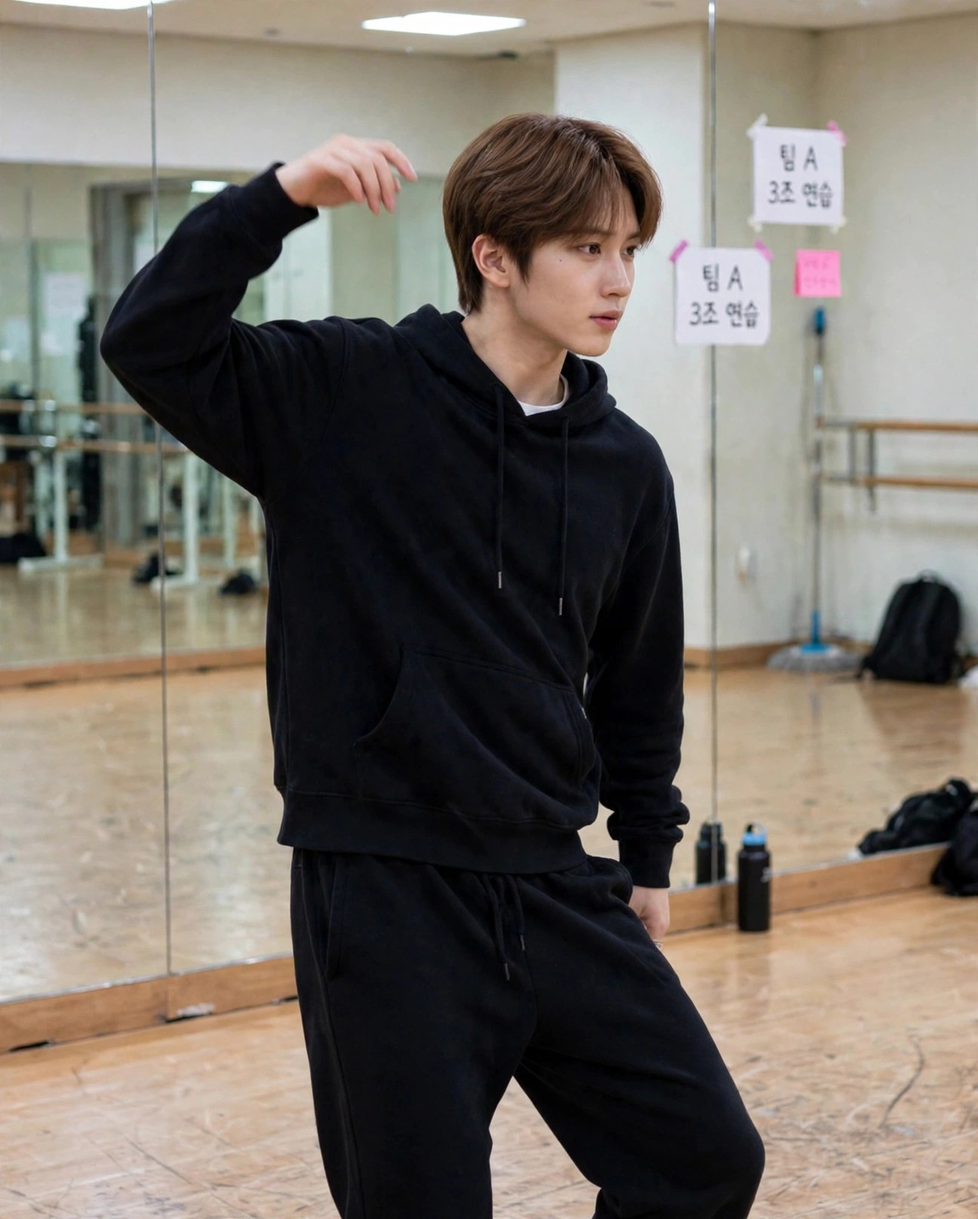
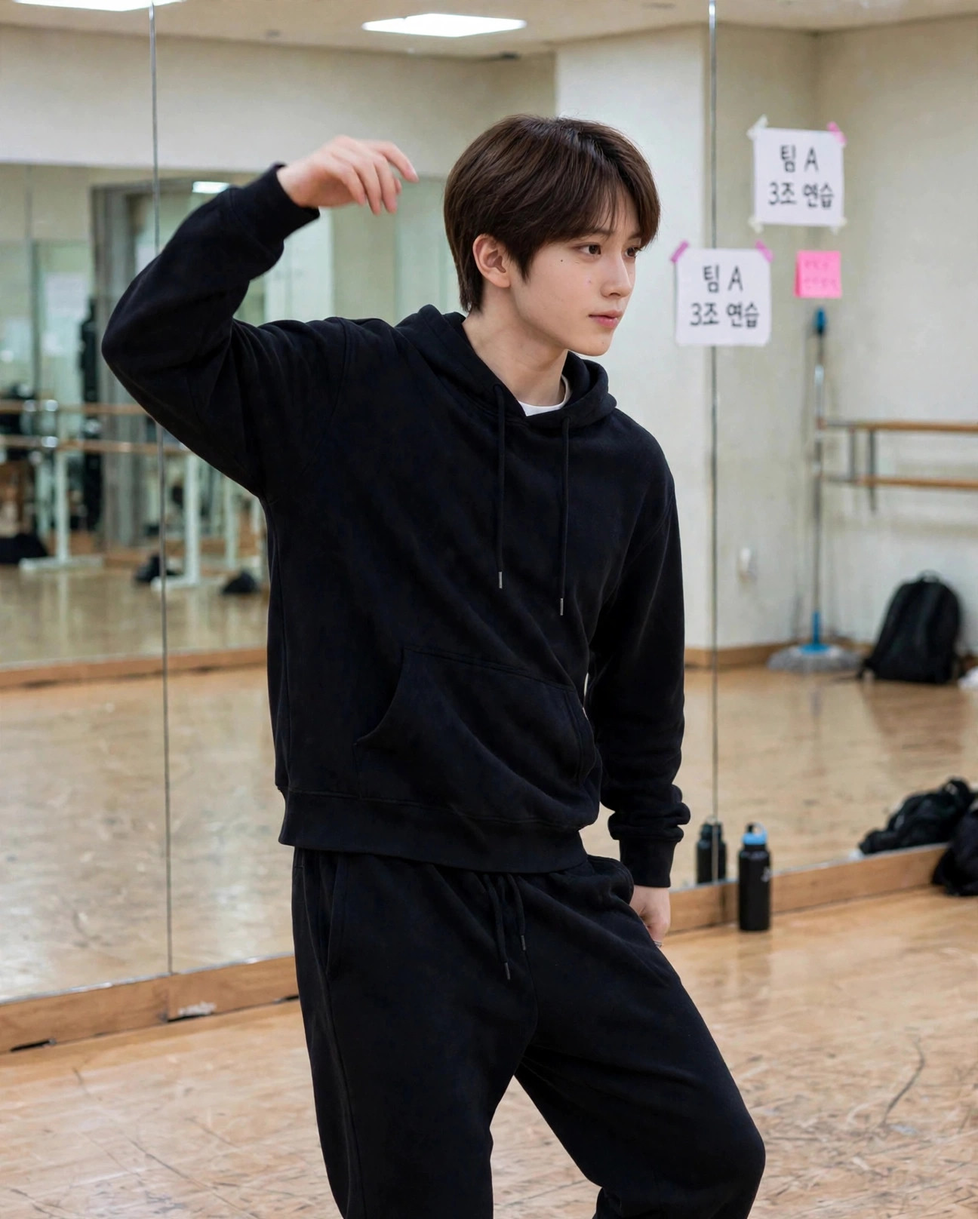
v60: 2023練習/ステージのface2再生成を組み込み／カード画角を頭部55-60%に統一／三浦渚央の順位を順位タブと発表場面に表示

diff --git a/index.html b/index.html
@@ -103,6 +103,7 @@ body{font-family:-apple-system,"Hiragino Kaku Gothic ProN","Noto Sans JP",sans-s
 .rcard.me{outline:2.5px solid var(--gold)}
 .rcard.hiroto{outline:2.5px solid var(--pink)}
 .rankrow{display:flex;align-items:center;gap:12px;background:#fff;margin:9px 12px 0;border-radius:13px;padding:10px 13px;box-shadow:0 1px 4px rgba(0,0,0,.05)}
+.rankrow.me{border:2px solid var(--gold);background:#fffdf3}
 .rankrow img{width:42px;height:42px;border-radius:50%;object-fit:cover;object-position:top}
 .rankrow .rk{font-size:17px;font-weight:800;width:38px;text-align:center}
 .rankrow>div{min-width:0}
@@ -430,7 +431,7 @@ body{font-family:-apple-system,"Hiragino Kaku Gothic ProN","Noto Sans JP",sans-s
     <span class="w-cycle" id="w-cycle">周回：0周目</span>
   </div>
   <div id="story-banner">
-    <img class="sb-thumb" id="sb-thumb" src="assets/nao/2019/profile-face2-close.jpg" alt="">
+    <img class="sb-thumb" id="sb-thumb" src="assets/nao/2019/profile-face2-close2.jpg" alt="">
     <div class="sb-main">
       <div class="sb-badge" id="sb-badge">▶ ストーリーを進める</div>
       <div class="sb-title" id="sb-title">0周目プロローグ</div>
@@ -518,7 +519,7 @@ body{font-family:-apple-system,"Hiragino Kaku Gothic ProN","Noto Sans JP",sans-s
 <script>
 "use strict";
 const $=s=>document.querySelector(s);
-const VER="v59";
+const VER="v60";
 /* ============ state ============ */
 const DEF={idx:0,started:false,consented:false,soundOn:true,
  g:{iwakan:0,bare:0,todoita:0,uta:8,dance:4,ishi:50},
@@ -531,7 +532,7 @@ function save(){try{localStorage.setItem("tlSaveV2",JSON.stringify(S));}catch(e)
 "use strict";
 /* ============ cast / program data (2019) ============ */
 const ROSTER=[
- {nm:"三浦渚央",meta:"高3・ダンス未経験に近い",img:"assets/nao/2019/profile-face2-close.jpg",me:true},
+ {nm:"三浦渚央",meta:"高3・ダンス未経験に近い",img:"assets/nao/2019/profile-face2-close2.jpg",me:true},
  {nm:"井汲大翔",meta:"高2・ダンス未経験",img:"assets/hiroto/hiroto.jpg",hiroto:true},
  {nm:"河野純喜",meta:"練習生",img:"assets/cast2019/junki.jpg"},
  {nm:"川尻蓮",meta:"練習生",img:"assets/cast2019/ren.jpg"},
@@ -548,7 +549,7 @@ const MISSIONS=[
  {at:3,t:"順位発表式",d:"国民プロデューサーの投票結果が発表される。生存と脱落が決まる夜。"}
 ];
 const ROSTER21=[
- {nm:"三浦渚央",meta:"19歳・日本",img:"assets/nao/2021/profile.jpg",me:true},
+ {nm:"三浦渚央",meta:"19歳・日本",img:"assets/nao/2021/profile-close.jpg",me:true},
  {nm:"井汲大翔",meta:"18歳・日本",img:"assets/hiroto21/hiroto.jpg",hiroto:true},
  {nm:"劉宇（リウユー）",meta:"中国・学員",img:"assets/cast2021/liuyu.jpg"},
  {nm:"赞多（サンタ）",meta:"日本・学員",img:"assets/cast2021/santa.jpg"},
@@ -1524,22 +1525,22 @@ function processItem(it){
   case 'keep':if(!S.keeps.includes(it.t))S.keeps.push(it.t);pushLog(`<div class="narr sys"><span class="rec">KEEPSAKE</span>Keepsake Box に残りました</div>`);S.idx++;break;
   case 'diff':if(!S.diffs.includes(it.t))S.diffs.push(it.t);pushLog(lineHTML(it));seDiff();S.idx++;break;
   case 'n': case 'd': case 'm': case 'sys': case 'same':pushLog(lineHTML(it));S.idx++;break;
-  case 'rank':S.flags.ranked=true;seRank();pushLog(canonHTML());S.idx++;break;
+  case 'rank':S.flags.ranked=true;seRank();pushLog(canonHTML());pushLog(naoRankRow("y2019","A"));S.idx++;break;
   case 'hisin':{const inner=it.lines.map(l=>lineHTML(l)).join("");pushLog(`<div class="hisin"><div class="hisin-tag">彼の画面 ― 大翔の視点</div>${inner}</div>`);S.idx++;break;}
   case 'tsukame':{const score=(S.flags.effortB||0)+(S.g.todoita>=4?1:0)+(S.g.ishi>=60?1:0);let out,lines;
    if(score>=4){out='keep';lines=[N('再評価の日。彼の番が来た。中盤、歌詞が一瞬詰まった。――でも、彼は止まらなかった。体が覚えた振りが、次の歌詞を連れてきた。'),N('最後まで、歌い切った。クラスは――C維持。周Aでは号泣と降格だったこの日が、静かに書き換わった。'),SYS('ツカメ再評価（周B）― 井汲大翔：C維持')];}
    else if(score>=2){out='nodrop';lines=[N('再評価の日。やはり中盤で、歌詞が飛んだ。クラスはDへ降格。――でも、彼は泣かなかった。'),N('「……止まらんかったら、歌は続く」。彼は自分にそう言い聞かせるように、最後まで踊り切った。'),SYS('ツカメ再評価（周B）― 井汲大翔：D降格（ただし号泣なし）')];}
    else{out='same';lines=[N('再評価の日。対策は、届かなかった。彼は歌詞を飛ばし、その場で号泣した。周Aと寸分違わない光景だった。'),SYS('ツカメ再評価（周B）― 井汲大翔：D降格（史実どおり）')];}
    S.flags.tsukameB=out;lines.forEach(l=>pushLog(lineHTML(l)));S.idx++;break;}
-  case 'rankB':{let r=36;r-=(S.flags.tsukameB==='keep'?8:S.flags.tsukameB==='nodrop'?4:0);r-=(S.g.todoita>=5?4:S.g.todoita>=3?2:0);r-=(S.g.ishi>=65?3:0);if(r<12)r=12;S.rankB=r;S.flags.rankedB=true;seRank();pushLog(canonBHTML(r));S.idx++;break;}
+  case 'rankB':{let r=36;r-=(S.flags.tsukameB==='keep'?8:S.flags.tsukameB==='nodrop'?4:0);r-=(S.g.todoita>=5?4:S.g.todoita>=3?2:0);r-=(S.g.ishi>=65?3:0);if(r<12)r=12;S.rankB=r;S.flags.rankedB=true;seRank();pushLog(canonBHTML(r));pushLog(naoRankRow("y2019","B"));S.idx++;break;}
   case 'endB':S.finishedB=true;pushLog(`<div class="canon"><h3>2019 日プ編 ― 完</h3><div style="font-size:13px;line-height:1.8">デビューできない結末は変わらなかった。でも、彼の歴史に「隣で踊ってくれた子」が残り、順位は最低ラインから上へ動いた。<br>――大周回Bは、2020年へ続く。</div></div>`);S.idx++;break;
   case 'ishiGate':{const hi=S.g.ishi>=(it.th||60);(hi?it.hi:it.lo).forEach(l=>{if(l.k==='ledger'||l.k==='keep'||l.k==='diff'||l.k==='fx')processResItem(l);else pushLog(lineHTML(l));});S.idx++;break;}
-  case 'rank21':S.flags.ranked21=true;seRank();pushLog(canon21HTML());S.idx++;break;
+  case 'rank21':S.flags.ranked21=true;seRank();pushLog(canon21HTML());pushLog(naoRankRow("y2021","A"));S.idx++;break;
   case 'endM1':S.finishedM1=true;pushLog(`<div class="canon"><h3>幕間1 ― 完</h3><div style="font-size:13px;line-height:1.8">彼はRBW JAPANの練習生になり、「もう一度」を選んだ。2021年、事務所の派遣として創造営へ。<br>――第2部・2021 創造営編へ続く。</div></div>`);S.idx++;break;
   case 'end21A':S.finished21A=true;pushLog(`<div class="canon"><h3>2021 創造営編 ― 大周回A・終了</h3><div style="font-size:13px;line-height:1.8">15位は、大周回Aの結果（最低ライン）。デビューできない結末は、この時代でも変わらなかった。<br>彼は巻き戻らない。時間は流れ、彼女だけが「この先」を知っている。――現在インタールードへ続く。</div></div>`);S.idx++;break;
-  case 'rank21B':{let r=15;r-=(S.flags.effort21>=4?2:S.flags.effort21>=2?1:0);r-=(S.g.todoita>=8?1:0);if(r<12)r=12;S.rank21B=r;S.flags.ranked21B=true;seRank();pushLog(canon21BHTML(r));S.idx++;break;}
+  case 'rank21B':{let r=15;r-=(S.flags.effort21>=4?2:S.flags.effort21>=2?1:0);r-=(S.g.todoita>=8?1:0);if(r<12)r=12;S.rank21B=r;S.flags.ranked21B=true;seRank();pushLog(canon21BHTML(r));pushLog(naoRankRow("y2021","B"));S.idx++;break;}
   case 'end21B':S.finished21B=true;pushLog(`<div class="canon"><h3>2021 創造営編 ― 完</h3><div style="font-size:13px;line-height:1.8">デビューできない結末は変わらなかった。でも彼の歴史に「隣にいてくれた子」が、2つの時代に残った。<br>――大周回B、次は2023年へ続く。</div></div>`);S.idx++;break;
-  case 'rank23B':{let r=21;r-=(S.flags.effort23>=4?4:S.flags.effort23>=3?3:S.flags.effort23>=2?2:S.flags.effort23>=1?1:0);r-=(S.g.todoita>=12?2:S.g.todoita>=9?1:0);r-=(S.g.ishi>=85?1:0);if(r<12)r=12;if(r>21)r=21;S.rank23B=r;S.flags.ranked23B=true;seRank();pushLog(canon23BHTML(r));
+  case 'rank23B':{let r=21;r-=(S.flags.effort23>=4?4:S.flags.effort23>=3?3:S.flags.effort23>=2?2:S.flags.effort23>=1?1:0);r-=(S.g.todoita>=12?2:S.g.todoita>=9?1:0);r-=(S.g.ishi>=85?1:0);if(r<12)r=12;if(r>21)r=21;S.rank23B=r;S.flags.ranked23B=true;seRank();pushLog(canon23BHTML(r));pushLog(naoRankRow("y2023","B"));
    if(r<=18){pushLog(lineHTML(N('第3回順位発表。17位、18位――生存の枠の中に、彼の名前が残った。')));pushLog(lineHTML(N('大周回Aでは閉ざされた扉が、開いた。彼はファイナルへ進んだ。')));pushLog(lineHTML(N('ファイナルの夜。最後のステージを終え、静寂の中で順位が読み上げられた。デビューの9人には届かなかった。――でも彼の名前は、ずっと後の順番まで、呼ばれなかった。')));}
    else{pushLog(lineHTML(N('第3回順位発表。19位、20位が過ぎ――彼の名前は、'+r+'位で呼ばれた。')));pushLog(lineHTML(N('脱落する回は、大周回Aと同じだった。でも順位は、確かに上へ動いていた。')));}
    S.idx++;break;}
@@ -1580,7 +1581,7 @@ function processItem(it){
     pushLog(`<div class="canon"><h3>BAD END ― ループ継続</h3><div style="font-size:13px;line-height:1.8">二人は「止める」と約束したのに、彼女は怖さに負けて、もう一度戻ってしまった。空虚な追加周回が始まる。<br>――認める勇気が、この物語の最後の鍵だった。</div></div>`);
    }
    S.idx=SCRIPT.length;break;}
-  case 'rank23':S.flags.ranked23=true;seRank();pushLog(canon23HTML());S.idx++;break;
+  case 'rank23':S.flags.ranked23=true;seRank();pushLog(canon23HTML());pushLog(naoRankRow("y2023","A"));S.idx++;break;
   case 'endM2':S.finishedM2=true;pushLog(`<div class="canon"><h3>幕間2 ― 完</h3><div style="font-size:13px;line-height:1.8">彼は三度目を選んだ。行く先は韓国『BOYS PLANET』。<br>――第3部・2023 ボイプラ編へ続く。</div></div>`);S.idx++;break;
   case 'end23A':S.finished23A=true;pushLog(`<div class="canon"><h3>2023 ボイプラ編 ― 大周回A・終了</h3><div style="font-size:13px;line-height:1.8">21位は、大周回Aの結果（最低ライン）。デビューできない結末は、三度目も変わらなかった。<br>彼の挑戦は一度ここで閉じる。でも物語は、番組のない日々へ続いていく。――NXD期へ続く。</div></div>`);S.idx++;break;
   case 'endNXDA':S.finishedNXDA=true;pushLog(`<div class="canon"><h3>大周回A ― 完</h3><div style="font-size:13px;line-height:1.8">彼女は2026年に帰ってきた。0周目とほとんど同じ顔をした現在。でも彼女の中には、彼の隣で生きた7年分の記憶がある。<br>――そして、もう一度。第2の大周回が始まる。</div></div>`);S.idx++;break;
@@ -1592,7 +1593,16 @@ function processItem(it){
  save();renderGauges();updProg();
 }
 function updProg(){const i=$("#st-prog-i");if(i)i.style.width=Math.min(100,Math.round((S?S.idx:0)/SCRIPT.length*100))+"%";}
-function naoPopHTML(era){const t={y2019:`個人ファンカムの再生は上位圏。実力クラスはCまでで、「顔は上位圏、実力は中位」のギャップが番組内外で話題に。中間発表の人気は高かったが、最終結果は生存枠の手前だった。`,y2021:`中国でもビジュアル先行で名前が売れた。人気は上位圏、実力は中位のまま――ギャップはこの時代でも話題になり、結果はデビューの枠の手前で止まった。`,y2023:`個人ファンカム（チッケム）の再生が実力以上に伸び、中間発表の順位はそこそこ上まで来た。ただしデビュー圏には入れない。人気が上がるほど「近づいてしまう」緊張が、彼女を離脱（辞退）へ向かわせる伏線になる。`};return `<div class="rankrow"><div class="rk" style="font-size:12px;color:var(--gold)">人気</div><img src="assets/nao/${era==="y2019"?"2019/profile-face2-close":era==="y2021"?"2021/profile":"2023/profile-close"}.jpg"><div><div class="rnm">三浦渚央 ― ビジュアル人気</div><div class="rmeta" style="white-space:normal">${t[era]}</div></div></div>`;}
+function naoRankRow(era,loop){const D={
+"y2019A":[38,"第1回 19位 → 第2回 38位で脱落（生存枠の手前）"],
+"y2019B":[36,"第1回 13位 → 第2回 36位で脱落 ― 周Aの38位から上昇（デビュー圏外）"],
+"y2021A":[18,"中間 23位 → 最終 18位（デビューの枠の手前）"],
+"y2021B":[16,"中間 17位 → 最終 16位 ― 周Aの18位から上昇（デビュー圏外）"],
+"y2023A":[22,"第1回 27位 → 第2回 23位 → 第3回 22位で脱落（枠の手前）"],
+"y2023B":[19,"第1回 20位 → 第2回 17位 → 第3回 19位で脱落 ― 周Aの22位から上昇（デビュー圏外）"]};
+const img=era==="y2019"?"assets/nao/2019/profile-face2-close2.jpg":era==="y2021"?"assets/nao/2021/profile-close.jpg":"assets/nao/2023/profile-close.jpg";
+const d=D[era+loop];return `<div class="rankrow me"><div class="rk" style="color:var(--gold)">${d[0]}</div><img src="${img}"><div><div class="rnm">三浦渚央${loop==="B"?"（周B）":""}</div><div class="rmeta">${d[1]}</div></div></div>`;}
+function naoPopHTML(era){const t={y2019:`個人ファンカムの再生は上位圏。実力クラスはCまでで、「顔は上位圏、実力は中位」のギャップが番組内外で話題に。中間発表の人気は高かったが、最終結果は生存枠の手前だった。`,y2021:`中国でもビジュアル先行で名前が売れた。人気は上位圏、実力は中位のまま――ギャップはこの時代でも話題になり、結果はデビューの枠の手前で止まった。`,y2023:`個人ファンカム（チッケム）の再生が実力以上に伸び、中間発表の順位はそこそこ上まで来た。ただしデビュー圏には入れない。人気が上がるほど「近づいてしまう」緊張が、彼女を離脱（辞退）へ向かわせる伏線になる。`};return `<div class="rankrow"><div class="rk" style="font-size:12px;color:var(--gold)">人気</div><img src="assets/nao/${era==="y2019"?"2019/profile-face2-close2":era==="y2021"?"2021/profile-close":"2023/profile-close"}.jpg"><div><div class="rnm">三浦渚央 ― ビジュアル人気</div><div class="rmeta" style="white-space:normal">${t[era]}</div></div></div>`;}
 function canon23HTML(){const g=S.g;return `<div class="canon"><h3>CANON LOCK ― BOYS PLANET・第3回順位発表の内訳</h3>
  <div class="crow"><span class="fixed">絶対不変</span><div>デビューできない結末（彼はZEROBASEONEのメンバーに入らない）／第3回発表で脱落する回は変更なし</div></div>
  <div class="crow"><span class="changed">周Aの結果</span><div>井汲大翔：<b>21位</b>（史実どおり＝最低ライン）／届いた応援：<b>${g.todoita}件</b>／評価と人気が噛み合わない中でも、キリングパートは届いた</div></div>
@@ -1680,13 +1690,13 @@ function renderProg(tab){progTab=tab;if(tab!=="roster")rosterSel=-1;document.que
  if(tab==="roster"){const _rn2=rosterNow();const _kind=_rn2===ROSTER21?"21":_rn2===ROSTER23?"23":"19";document.querySelectorAll("#prog-body .rcard").forEach((el,i)=>{el.style.cursor="pointer";el.onclick=()=>{seTap(1);rosterSel=(rosterSel===i?-1:i);renderProg("roster");};});if(rosterSel>=0&&_rn2[rosterSel]){const r=_rn2[rosterSel];body.insertAdjacentHTML("beforeend",`<div class="rdetail"><img src="${r.img}"><div><div class="rd-n">${r.nm}${r.me?"（自分）":""}</div><div class="rd-m">${r.meta}</div><p>${rosterMemo(r,_kind)}</p></div></div>`);}}
  if(tab==="rank"){
    if(!S.flags.ranked&&!S.flags.ranked21&&!S.flags.ranked23){body.innerHTML=`<div class="empty">順位発表はまだ行われていません。<br>発表の夜に、ここへ結果が刻まれます。</div>`;}
-   else{body.innerHTML=`<div class="rank-note">これは<b>公式発表の写し</b>です。デビュー圏（日プ・創造営は11位まで／ボイプラは9位まで）には、どの周でも入りません ― <b>Canon Lock</b>。動くのは、圏の外側の景色です。</div>`+(S.flags.ranked23B?canon23BHTML(S.rank23B)+`<div class="rankrow"><div class="rk" style="color:var(--pink)">${S.rank23B}</div><img src="assets/hiroto23/hiroto.jpg"><div><div class="rnm">井汲大翔（ボイプラ・周B）</div><div class="rmeta">デビュー圏外 ― 周Aの21位から上昇</div></div></div>`:"")+(S.flags.ranked23?canon23HTML()+`<div class="rankrow"><div class="rk">―</div><img src="assets/hiroto23/hiroto.jpg"><div><div class="rnm">1位〜20位</div><div class="rmeta">史実どおり（変更なし）</div></div></div>
+   else{body.innerHTML=`<div class="rank-note">これは<b>公式発表の写し</b>です。デビュー圏（日プ・創造営は11位まで／ボイプラは9位まで）には、どの周でも入りません ― <b>Canon Lock</b>。動くのは、圏の外側の景色です。</div>`+(S.flags.ranked23B?canon23BHTML(S.rank23B)+`<div class="rankrow"><div class="rk" style="color:var(--pink)">${S.rank23B}</div><img src="assets/hiroto23/hiroto.jpg"><div><div class="rnm">井汲大翔（ボイプラ・周B）</div><div class="rmeta">デビュー圏外 ― 周Aの21位から上昇</div></div></div>`+naoRankRow("y2023","B"):"")+(S.flags.ranked23?canon23HTML()+`<div class="rankrow"><div class="rk">―</div><img src="assets/hiroto23/hiroto.jpg"><div><div class="rnm">1位〜20位</div><div class="rmeta">史実どおり（変更なし）</div></div></div>
    <div class="rankrow"><div class="rk" style="color:var(--pink)">21</div><img src="assets/hiroto23/hiroto.jpg"><div><div class="rnm">井汲大翔（ボイプラ）</div><div class="rmeta">デビュー圏外 ― 周Aの結果（最低ライン）</div></div></div>
-   <div class="rankrow"><div class="rk">―</div><img src="assets/nao/2023/profile-close.jpg"><div><div class="rnm">三浦渚央</div><div class="rmeta">脱落（デビューの枠の手前）</div></div></div>`+naoPopHTML("y2023"):"")+(S.flags.ranked21B?canon21BHTML(S.rank21B)+`<div class="rankrow"><div class="rk" style="color:var(--pink)">${S.rank21B}</div><img src="assets/hiroto21/hiroto.jpg"><div><div class="rnm">井汲大翔（創造営・周B）</div><div class="rmeta">デビュー圏外 ― 周Aの15位から上昇</div></div></div>`:"")+(S.flags.ranked21?canon21HTML()+`<div class="rankrow"><div class="rk">―</div><img src="assets/hiroto21/hiroto.jpg"><div><div class="rnm">1位〜14位</div><div class="rmeta">史実どおり（変更なし）</div></div></div>
+   ${naoRankRow("y2023","A")}`+naoPopHTML("y2023"):"")+(S.flags.ranked21B?canon21BHTML(S.rank21B)+`<div class="rankrow"><div class="rk" style="color:var(--pink)">${S.rank21B}</div><img src="assets/hiroto21/hiroto.jpg"><div><div class="rnm">井汲大翔（創造営・周B）</div><div class="rmeta">デビュー圏外 ― 周Aの15位から上昇</div></div></div>`+naoRankRow("y2021","B"):"")+(S.flags.ranked21?canon21HTML()+`<div class="rankrow"><div class="rk">―</div><img src="assets/hiroto21/hiroto.jpg"><div><div class="rnm">1位〜14位</div><div class="rmeta">史実どおり（変更なし）</div></div></div>
    <div class="rankrow"><div class="rk" style="color:var(--pink)">15</div><img src="assets/hiroto21/hiroto.jpg"><div><div class="rnm">井汲大翔（創造営）</div><div class="rmeta">デビュー圏外 ― 周Aの結果（最低ライン）</div></div></div>
-   <div class="rankrow"><div class="rk">―</div><img src="assets/nao/2021/profile.jpg"><div><div class="rnm">三浦渚央</div><div class="rmeta">脱落（デビューの枠の手前）</div></div></div>`+naoPopHTML("y2021"):"")+(S.flags.rankedB?canonBHTML(S.rankB)+`<div class="rankrow"><div class="rk" style="color:var(--pink)">${S.rankB}</div><img src="assets/hiroto/hiroto.jpg"><div><div class="rnm">井汲大翔（周B）</div><div class="rmeta">脱落 ― 周Aの36位から上昇（デビュー圏外）</div></div></div>`:"")+(S.flags.ranked?canonHTML()+`<div class="rankrow"><div class="rk">―</div><img src="assets/hiroto/hiroto.jpg"><div><div class="rnm">1位〜35位</div><div class="rmeta">史実どおり（変更なし）</div></div></div>
+   ${naoRankRow("y2021","A")}`+naoPopHTML("y2021"):"")+(S.flags.rankedB?canonBHTML(S.rankB)+`<div class="rankrow"><div class="rk" style="color:var(--pink)">${S.rankB}</div><img src="assets/hiroto/hiroto.jpg"><div><div class="rnm">井汲大翔（周B）</div><div class="rmeta">脱落 ― 周Aの36位から上昇（デビュー圏外）</div></div></div>`+naoRankRow("y2019","B"):"")+(S.flags.ranked?canonHTML()+`<div class="rankrow"><div class="rk">―</div><img src="assets/hiroto/hiroto.jpg"><div><div class="rnm">1位〜35位</div><div class="rmeta">史実どおり（変更なし）</div></div></div>
    <div class="rankrow"><div class="rk" style="color:var(--pink)">36</div><img src="assets/hiroto/hiroto.jpg"><div><div class="rnm">井汲大翔</div><div class="rmeta">脱落 ― 周Aの結果（最低ライン）</div></div></div>
-   <div class="rankrow"><div class="rk">―</div><img src="assets/nao/2019/profile-face2-close.jpg"><div><div class="rnm">三浦渚央</div><div class="rmeta">脱落（生存枠の手前）</div></div></div>`+naoPopHTML("y2019"):"");}
+   ${naoRankRow("y2019","A")}`+naoPopHTML("y2019"):"");}
  }
  if(tab==="vote"){
    if(!S.flags.leaped){body.innerHTML=`<div class="pad"><div class="card"><h3>国民プロデューサー投票</h3><p>0周目の彼女は、ファンとして毎日投票していました。公式ルール内の投票のみです。</p><div class="vote-prof"><img src="assets/hiroto/hiroto.jpg"><div><div class="vp-n">井汲大翔</div><div class="vp-m">PRODUCE 101 JAPAN ― 練習生</div></div></div>${S.votedDay===0?`<div class="vote-done"><b>投票を受け付けました</b><span>井汲大翔 ― 1票${S.voteTime?`（${S.voteTime} 受付）`:""}</span></div>`:`<button class="btn gold" id="vote-btn">井汲大翔に投票する</button>`}<p class="small" style="margin-top:8px">投票済み回数：${S.voteCount||0}回 ― 彼女の毎日は、こうして積み重なっていました。</p></div></div>`;const vb=$("#vote-btn");if(vb)vb.onclick=()=>{seNotif();S.votedDay=0;S.voteCount=(S.voteCount||0)+1;const _d=new Date();S.voteTime=_d.getHours()+":"+String(_d.getMinutes()).padStart(2,"0");save();renderProg("vote");};}
@@ -1813,7 +1823,7 @@ function renderSettings(tab){setTab=tab;document.querySelectorAll("#set-tabs but
  <div class="srow"><span>到達した結末</span><span class="sv">${S.trueEnd?"TRUE END ― 現在":S.normalEnd?"END ― 通常現在":S.loopBad?"BAD END ― ループ継続":S.bareEnd?"END ― 秘密バレIF":S.ridatsuEnd?"END ― 離脱した現在":"（まだ到達していません）"}</span></div>
  <div class="srow"><span>サウンド</span><span class="sv"><button id="snd-btn" style="background:${S.soundOn!==false?"#17172a":"#c6c6d4"};color:#fff;border:none;border-radius:999px;padding:6px 18px;font-size:12.5px;font-weight:700;cursor:pointer">${S.soundOn!==false?"ON":"OFF"}</button></span></div>
  <div class="srow"><span>フィクション</span><span class="sv">実在の記録をもとにした創作です</span></div>
- <div class="srow"><span>アップデート</span><span class="sv">v16 サウンドと画面遷移／v17 差分再演REPLAYとDiff時代別表示／v18 現在の小さな変化／v19 トークのスレッドとフリーチャット／v20・v23・v32 場面カットの追加／v21 日常回（食堂の夜・売店の夜）／v22 番組アプリの情報デザイン／v24 ホーム背景の時代連動と進行％／v25 タイトルのスライドショー／v26 彼の画面のカウンタ／v27 ロック画面の通知スタック／v28 写真の全画面ビューア／v30 章ごとの記録カード／v31 フィナーレ直前の彼の視点／v33 フリーチャットの時代別応答／v34 投票レシート／v35 ミッション進捗バー／v36 ゲージの危険域表示／v37 選んだ記録の判別表示／v38 台帳の時代別表示／v39 Keepsakeの時代バッジ／v41 章名つきロック画面／v42 トークの新着バッジ／v43 名簿の詳細パネル／v44 写真のスワイプ送り／v45 BGMの時代連動／v46 順位・差分の専用SE／v47 長押し早送り／v48 章セレクト／v50 REPLAY再演の追加／v52 日常回（コンビニの夜）／v53 タイトル通知のセーブ連動／v54 アプリアイコンのバッジ／v55 主人公の正式名「三浦渚央」と2019プロフィールの新フェイス差し替え</span></div>
+ <div class="srow"><span>アップデート</span><span class="sv">v16 サウンドと画面遷移／v17 差分再演REPLAYとDiff時代別表示／v18 現在の小さな変化／v19 トークのスレッドとフリーチャット／v20・v23・v32 場面カットの追加／v21 日常回（食堂の夜・売店の夜）／v22 番組アプリの情報デザイン／v24 ホーム背景の時代連動と進行％／v25 タイトルのスライドショー／v26 彼の画面のカウンタ／v27 ロック画面の通知スタック／v28 写真の全画面ビューア／v30 章ごとの記録カード／v31 フィナーレ直前の彼の視点／v33 フリーチャットの時代別応答／v34 投票レシート／v35 ミッション進捗バー／v36 ゲージの危険域表示／v37 選んだ記録の判別表示／v38 台帳の時代別表示／v39 Keepsakeの時代バッジ／v41 章名つきロック画面／v42 トークの新着バッジ／v43 名簿の詳細パネル／v44 写真のスワイプ送り／v45 BGMの時代連動／v46 順位・差分の専用SE／v47 長押し早送り／v48 章セレクト／v50 REPLAY再演の追加／v52 日常回（コンビニの夜）／v53 タイトル通知のセーブ連動／v54 アプリアイコンのバッジ／v55 主人公の正式名「三浦渚央」と2019プロフィールの新フェイス差し替え／v56〜v59 プロフィール・場面カットの新フェイス再生成／v60 カード画角の統一（頭部55〜60%）と三浦渚央の順位表示</span></div>
  <div class="pad"><p class="small">エンディングは5種（TRUE現在／通常現在／離脱した現在／秘密バレIF／ループ継続BAD）。結末は、彼の岐路での関わり・手がかり（Keepsakeと届いた数）・男装バレ度・最後の選択で分かれます。なお「デビューしてしまう現在」はIF候補として設計にのみ記録され、本編では採用していません（デビューメンバー構成は不変のため）。</p></div>
  <div class="pad"><button class="btn" id="reset-btn" style="background:#ff3b30">データを消して最初から</button></div>`;
  const rb=$("#reset-btn");if(rb)rb.onclick=()=>{if(confirm("セーブデータを消して最初から始めますか？")){localStorage.removeItem("tlSaveV2");location.reload();}};

diff --git a/docs/DESIGN.md b/docs/DESIGN.md
@@ -88,6 +88,18 @@
 - **応援される側の経験**：応援台帳・届いた数には、彼女宛のファンレター／応援も含める。彼女も「応援される側」を経験することが、ファンだった彼女の物語のもう一つの芯になる
 - 実装への反映：番組アプリの順位タブに彼女の人気（ファンカム再生・話題度と実力クラスのギャップ）を時代ごとに表示する。2023編では個人ファンカム（チッケム）が伸びる場面を本編に入れ、離脱の伏線として扱う
 
+### 3.6 渚央自身の順位（2026-11-09 本人指示で定義・実装）
+
+彼女の順位も順位タブと順位発表の場面に表示する。大翔の Canon Lock 順位とは**別行・金枠**で出し、「自分」だと分かる見せ方にする。数値の原則：ビジュアル人気型のため中間発表はそこそこ上、最終はいつも「枠の手前」で止まる。**デビュー圏（日プ・創造営11位／ボイプラ9位）にはどの周でも入らない**。大周回Bでは中間・最終とも少し上振れする。
+
+| 時代 | 大周回A | 大周回B |
+|---|---|---|
+| 2019 日プ（生存枠35／デビュー11） | 第1回 19位 → 第2回 **38位**で脱落 | 第1回 13位 → 第2回 **36位**で脱落（Aの38位から上昇。36位はAで大翔がいた「あと1人」の位置） |
+| 2021 創造営（デビュー11） | 中間 23位 → 最終 **18位** | 中間 17位 → 最終 **16位**（Aの18位から上昇） |
+| 2023 ボイプラ（第3回生存枠18／デビュー9） | 第1回 27位 → 第2回 23位 → 第3回 **22位**で脱落 | 第1回 20位 → 第2回 17位 → 第3回 **19位**で脱落（Aの22位から上昇、生存枠の直下） |
+
+- 実装：`naoRankRow(era, loop)` が金枠行を生成し、順位タブ（彼の行とは別行）と各順位発表イベントのログに表示する。数値は固定（彼の周B順位のような動的計算はしない）
+
 ## 4. 井汲大翔の人物描写基準（MEMORY.md準拠）
 
 - ソロ歌手。グループ所属として扱わない。冠番組は持っていない。活動規模はファンミーティング・小規模ライブ・SNS／配信が中心という現実感に合わせる

diff --git a/docs/ASSETS_NAO.md b/docs/ASSETS_NAO.md
@@ -6,6 +6,7 @@
 
 - **現行の顔の基準＝ face2（2026-11-09 本人承認・正式決定）**: `assets/nao/2019/profile-face2-close.jpg`（名簿用アップ）／ `assets/nao/2019/profile-face2-full.jpg`（全身版）。制服＋青チェックの通常ネクタイ＋ガッツポーズは従来どおり
   - 特徴：鼻翼が狭く鼻筋が細い顔立ち（本人が提示した参照写真2枚に寄せたもの）。目の下のほくろ・白い肌は維持
+  - **カード表示の画角基準（2026-11-09 本人指示）**：名簿・順位・パネル等のカード用画像は頭部が画面の55〜60%（井汲大翔の公式カードと同じ画角）。2019は `profile-face2-close2.jpg`（頭部約58%）、2021は `profile-close.jpg`（profile.jpg から約56%で切り出し）、2023は `profile-close.jpg`（profile.jpg から基準画角で切り出し）。全身・場面カットはこの基準の対象外
   - 2021・2023のプロフィールと、ナオが写る場面カット類は全てこの face2 を同一性基準として生成し直す（旧フェイスとの混在禁止）
 - **旧基準は使用禁止（2026-11-09 差し替え）**: 下記の旧基準ビジュアル（438CA…）から生成した旧フェイスの画像は全て表示から外す。対象：2019リボン版（`profile.jpg` / `profile-close.jpg`）、2019ネクタイ版（`profile-tie.jpg` / `profile-close2.jpg`）、および旧フェイスで生成された 2021・2023 プロフィールと全場面カット
 - （旧）基準ビジュアル: `~/workspace/user/files/438CA2B6-C46E-4F5A-B3F6-16D1405B68DB-photo-82968D00-9B6A-4F0F-A184-C9ACBFE37FCC.jpg`（1122×1402、紺セーターで頭に手を添えた男版ビジュアル）
